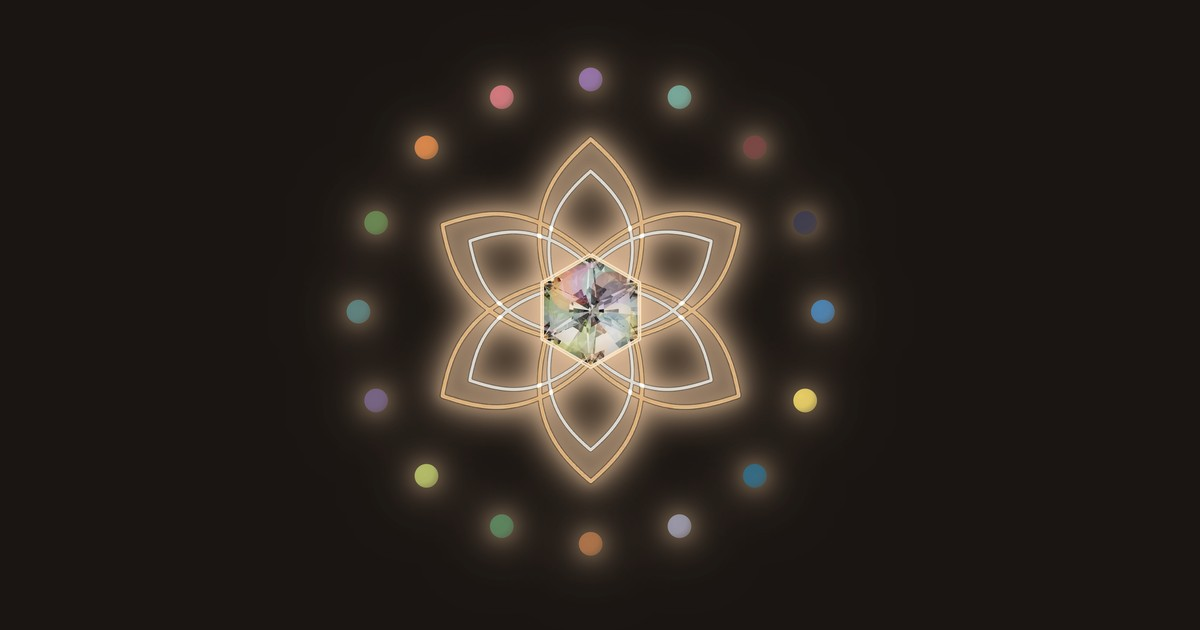
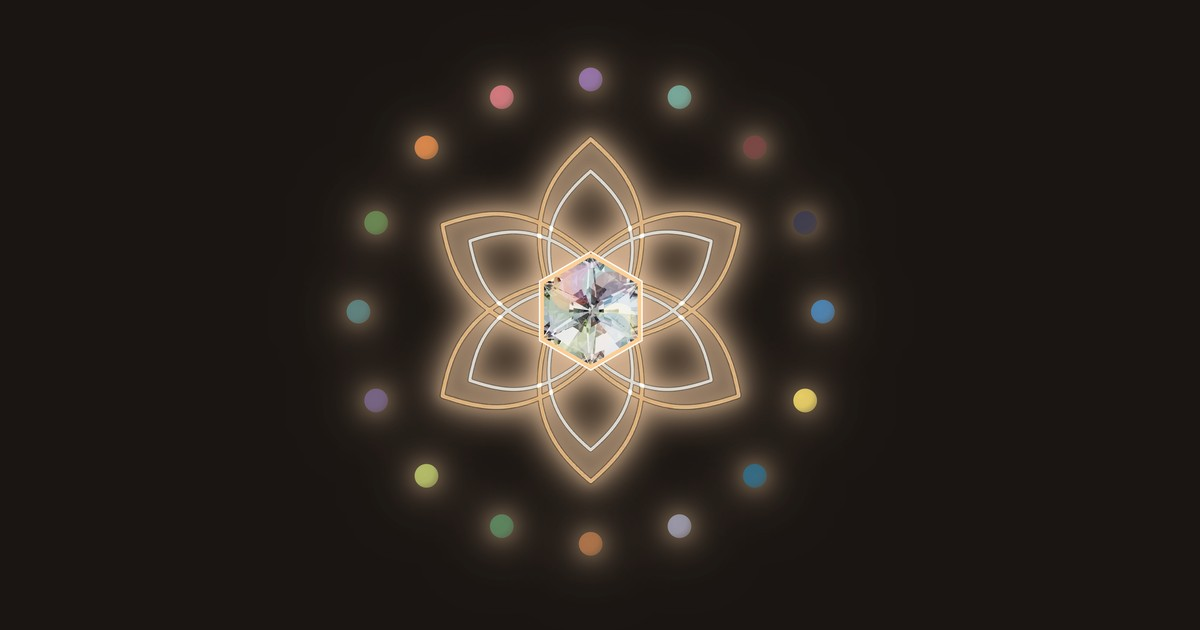
Update gem again

Changed region(s): [[0.4317, 0.3921, 0.555, 0.6032]]

diff --git a/src/app/components/SpectralGem.tsx b/src/app/components/SpectralGem.tsx
@@ -20,17 +20,14 @@ interface SpectralGemProps {
   breathingEnabled?: boolean;
 }
 
-// The stone is rendered under white light, which reads as bright white, most of all at the edges. The tint multiplies
-// the whole stone by a warm tone that is mild in the middle and stronger toward the rim.
-const TONE_CENTER = [0.95, 0.93, 0.9];
-const TONE_EDGE = [0.78, 0.7, 0.58];
-const TONE_START = 0.26; // distance from the centre (as a fraction of the stone's frame) where the rim tone begins
-
-// A thin gold bezel drawn around the edge of the stone, the same thickness and colour as the petals' lines, sitting
-// half on the stone and half off it.
+// A double bezel around the edge of the stone: a gold line (the darker of the petals' two colours, and their
+// thickness) sitting half on the stone and half off it, with a thinner cream line (the lighter petal colour) just
+// outside it.
 const BEZEL_WIDTH = 0.03; // of the frame's side (the petals' line is about 2.8% of the same span)
-const BEZEL_COLOR = '#fddfb9';
-const BEZEL_HIGHLIGHT = 'rgba(255, 248, 232, 0.65)';
+const BEZEL_COLOR = '#fcce96';
+const BEZEL_OUTER_WIDTH = 0.012;
+const BEZEL_OUTER_COLOR = '#fff9ee';
+const BEZEL_GAP = 0.004; // between the two lines
 
 const FRAME_INTERVAL_MS = 1000 / 30; // the sparkle moves ~1.6 frames a second; 30 draws a second is plenty smooth
 
@@ -81,11 +78,11 @@ export default function SpectralGem({
       if (z) {
         const c = px / 2;
         const R = GEM_HEX_RADIUS * px;
-        const hex = () => {
+        const hex = (radius: number) => {
           z.beginPath();
           for (let k = 0; k < 6; k++) {
             const a = -Math.PI / 2 + (k * Math.PI) / 3; // corners at the top and bottom
-            const x = c + R * Math.cos(a), y = c + R * Math.sin(a);
+            const x = c + radius * Math.cos(a), y = c + radius * Math.sin(a);
             if (k === 0) z.moveTo(x, y); else z.lineTo(x, y);
           }
           z.closePath();
@@ -94,11 +91,11 @@ export default function SpectralGem({
         z.lineCap = 'round';
         z.strokeStyle = BEZEL_COLOR;
         z.lineWidth = Math.max(1, BEZEL_WIDTH * px);
-        hex();
+        hex(R);
         z.stroke();
-        z.strokeStyle = BEZEL_HIGHLIGHT;
-        z.lineWidth = Math.max(0.5, BEZEL_WIDTH * px * 0.35);
-        hex();
+        z.strokeStyle = BEZEL_OUTER_COLOR;
+        z.lineWidth = Math.max(0.75, BEZEL_OUTER_WIDTH * px);
+        hex(R + (BEZEL_WIDTH / 2 + BEZEL_GAP + BEZEL_OUTER_WIDTH / 2) * px);
         z.stroke();
       }
     }
@@ -144,11 +141,7 @@ export default function SpectralGem({
       bctx.clearRect(0, 0, px, px);
       bctx.drawImage(off, 0, 0);
       bctx.globalCompositeOperation = 'multiply';
-      const tone = (t: number[]) => `rgb(${Math.round(r * t[0])},${Math.round(g * t[1])},${Math.round(b * t[2])})`;
-      const rim = bctx.createRadialGradient(px / 2, px / 2, px * TONE_START, px / 2, px / 2, px * GEM_HEX_RADIUS);
-      rim.addColorStop(0, tone(TONE_CENTER));
-      rim.addColorStop(1, tone(TONE_EDGE));
-      bctx.fillStyle = rim;
+      bctx.fillStyle = `rgb(${Math.round(r)},${Math.round(g)},${Math.round(b)})`;
       bctx.fillRect(0, 0, px, px);
       bctx.globalCompositeOperation = 'destination-in'; // restore the stone's transparent outline
       bctx.drawImage(off, 0, 0);

diff --git a/src/app/components/NenyaLogo.tsx b/src/app/components/NenyaLogo.tsx
@@ -140,15 +140,24 @@ export default function NenyaLogo({
             const colorCycleDuration = 30; // seconds to cycle through all 6 colors
             const colors = valar.vector;
             
-            return (
+            // Each orb is partly hidden by the ones after it, all the way round. Drawing order gives that for most of
+            // the ring, but the last few orbs would otherwise sit whole on top of the first few. So they are cut away
+            // wherever one of the first orbs overlaps them, which puts those first orbs on top at the seam.
+            const total = valarColors.length;
+            const SEAM_REACH = 4; // an orb overlaps about this many neighbours (their centres are closer than a diameter)
+            const wrapped = index >= total - SEAM_REACH;
+            const pad = orbSize * 0.2; // room for the orb's pulse (it grows by 5%) inside the cut-out wrapper
+            const left = orbitRadius - orbSize / 2 + x;
+            const top = orbitRadius - orbSize / 2 + y;
+            const orb = (
               <m.div
                 key={valar.name}
                 className="absolute"
                 style={{
                   width: orbSize,
                   height: orbSize,
-                  left: orbitRadius - orbSize / 2 + x,
-                  top: orbitRadius - orbSize / 2 + y,
+                  left: wrapped ? pad : orbitRadius - orbSize / 2 + x,
+                  top: wrapped ? pad : orbitRadius - orbSize / 2 + y,
                   borderRadius: '50%',
                   willChange: 'background, opacity, transform',
                   opacity: 0.64,
@@ -194,6 +203,39 @@ export default function NenyaLogo({
                   }
                 }}
               />
+            );
+            if (!wrapped) return orb;
+            const rr = orbSize / 2;
+            const holes = Array.from({ length: index + SEAM_REACH - total + 1 }, (_, k) => k);
+            const mask = holes
+              .map((j) => {
+                const aj = (j / total) * 2 * Math.PI;
+                const cx = Math.cos(aj) * orbitRadius - x + orbSize / 2 + pad;
+                const cy = Math.sin(aj) * orbitRadius - y + orbSize / 2 + pad;
+                return `radial-gradient(circle at ${cx}px ${cy}px, transparent ${rr * 0.9}px, #000 ${rr}px)`;
+              })
+              .join(', ');
+            return (
+              <div
+                key={`seam-${valar.name}`}
+                className="absolute"
+                style={
+                  {
+                    left: left - pad,
+                    top: top - pad,
+                    width: orbSize + pad * 2,
+                    height: orbSize + pad * 2,
+                    maskImage: mask,
+                    WebkitMaskImage: mask,
+                    maskComposite: 'intersect',
+                    WebkitMaskComposite: 'source-in',
+                    maskRepeat: 'no-repeat',
+                    WebkitMaskRepeat: 'no-repeat',
+                  } as React.CSSProperties
+                }
+              >
+                {orb}
+              </div>
             );
           })}
         </div>
